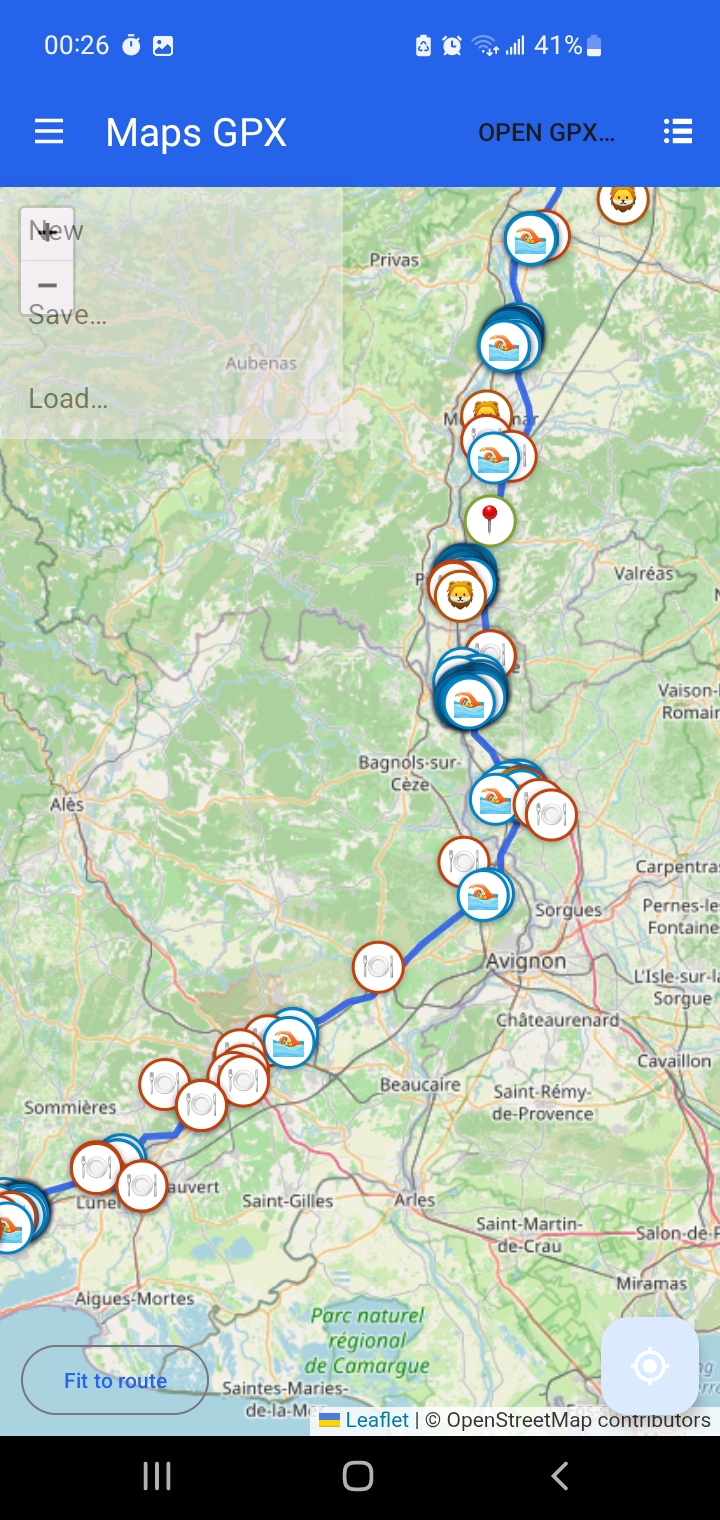
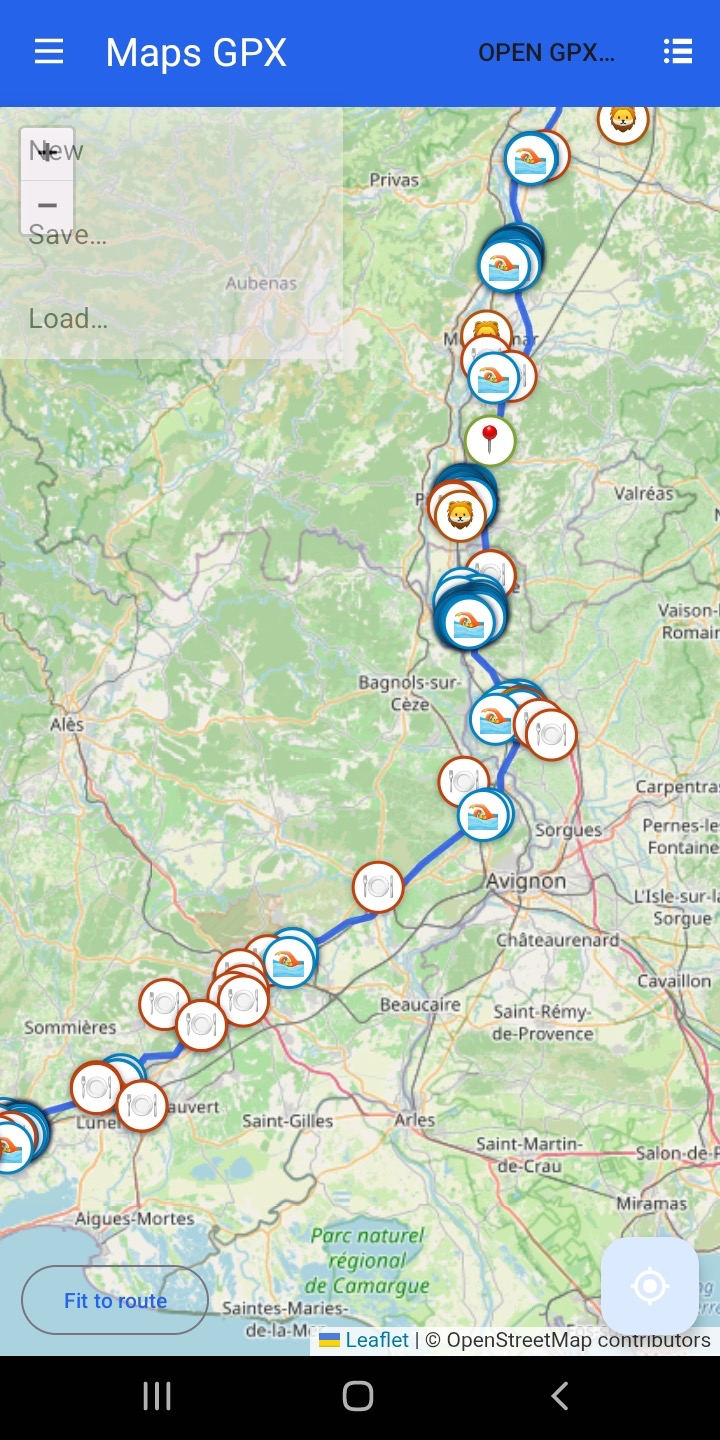
fix: Crop Play Store phone screenshots to 1440px height
Remove 80px from the top of 01–03 (720×1520 → 720×1440) using a Swift
ImageIO/CoreGraphics helper so cropping matches pixel coordinates and
avoids sips offset quirks.

diff --git a/scripts/crop-jpeg-top.swift b/scripts/crop-jpeg-top.swift
@@ -1,0 +1,52 @@
+#!/usr/bin/env swift
+import Foundation
+import ImageIO
+import CoreGraphics
+import UniformTypeIdentifiers
+
+/// Crop raster in place: remove `dropTop` pixels from the top; width unchanged.
+/// CGImage crop rect uses pixel space, origin top-left, y increasing downward.
+guard CommandLine.argc == 3,
+      let dropTop = Int(CommandLine.arguments[2]), dropTop >= 0
+else {
+    fputs("usage: crop-jpeg-top.swift <path.jpg> <pixels-to-remove-from-top>\n", stderr)
+    exit(1)
+}
+let path = CommandLine.arguments[1]
+let url = URL(fileURLWithPath: path) as CFURL
+
+guard let src = CGImageSourceCreateWithURL(url, nil),
+      let cg = CGImageSourceCreateImageAtIndex(src, 0, nil)
+else {
+    fputs("failed to read image\n", stderr)
+    exit(1)
+}
+
+let w = cg.width
+let h = cg.height
+guard dropTop < h else {
+    fputs("dropTop >= image height\n", stderr)
+    exit(1)
+}
+let newH = h - dropTop
+let rect = CGRect(x: 0, y: CGFloat(dropTop), width: CGFloat(w), height: CGFloat(newH))
+
+guard let cropped = cg.cropping(to: rect) else {
+    fputs("crop failed\n", stderr)
+    exit(1)
+}
+
+guard let dest = CGImageDestinationCreateWithURL(url as CFURL, UTType.jpeg.identifier as CFString, 1, nil)
+else {
+    fputs("failed to open destination\n", stderr)
+    exit(1)
+}
+
+let props = CGImageSourceCopyPropertiesAtIndex(src, 0, nil) as? [CFString: Any]
+CGImageDestinationAddImage(dest, cropped, props as CFDictionary?)
+guard CGImageDestinationFinalize(dest) else {
+    fputs("write failed\n", stderr)
+    exit(1)
+}
+
+print("cropped \(w)x\(h) -> \(w)x\(newH) (removed top \(dropTop)px)")